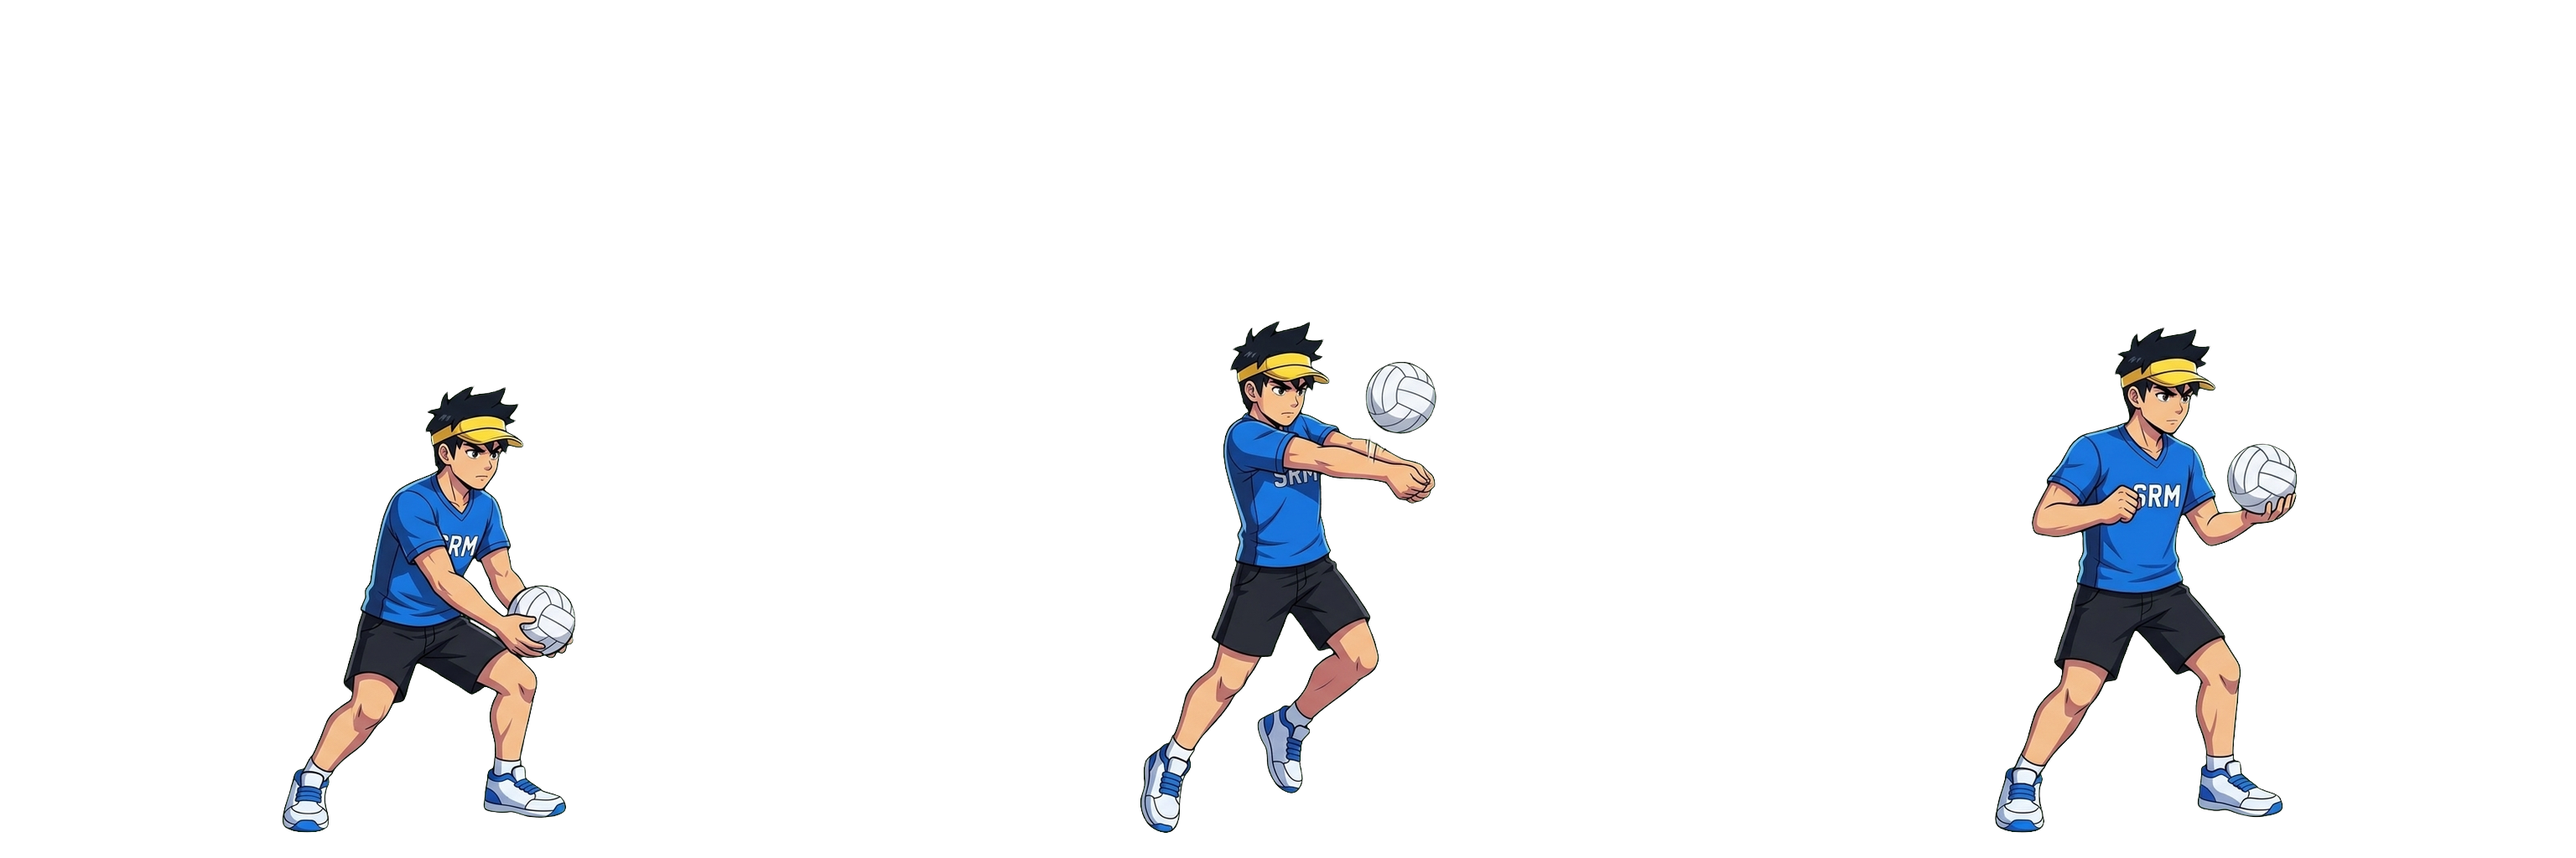
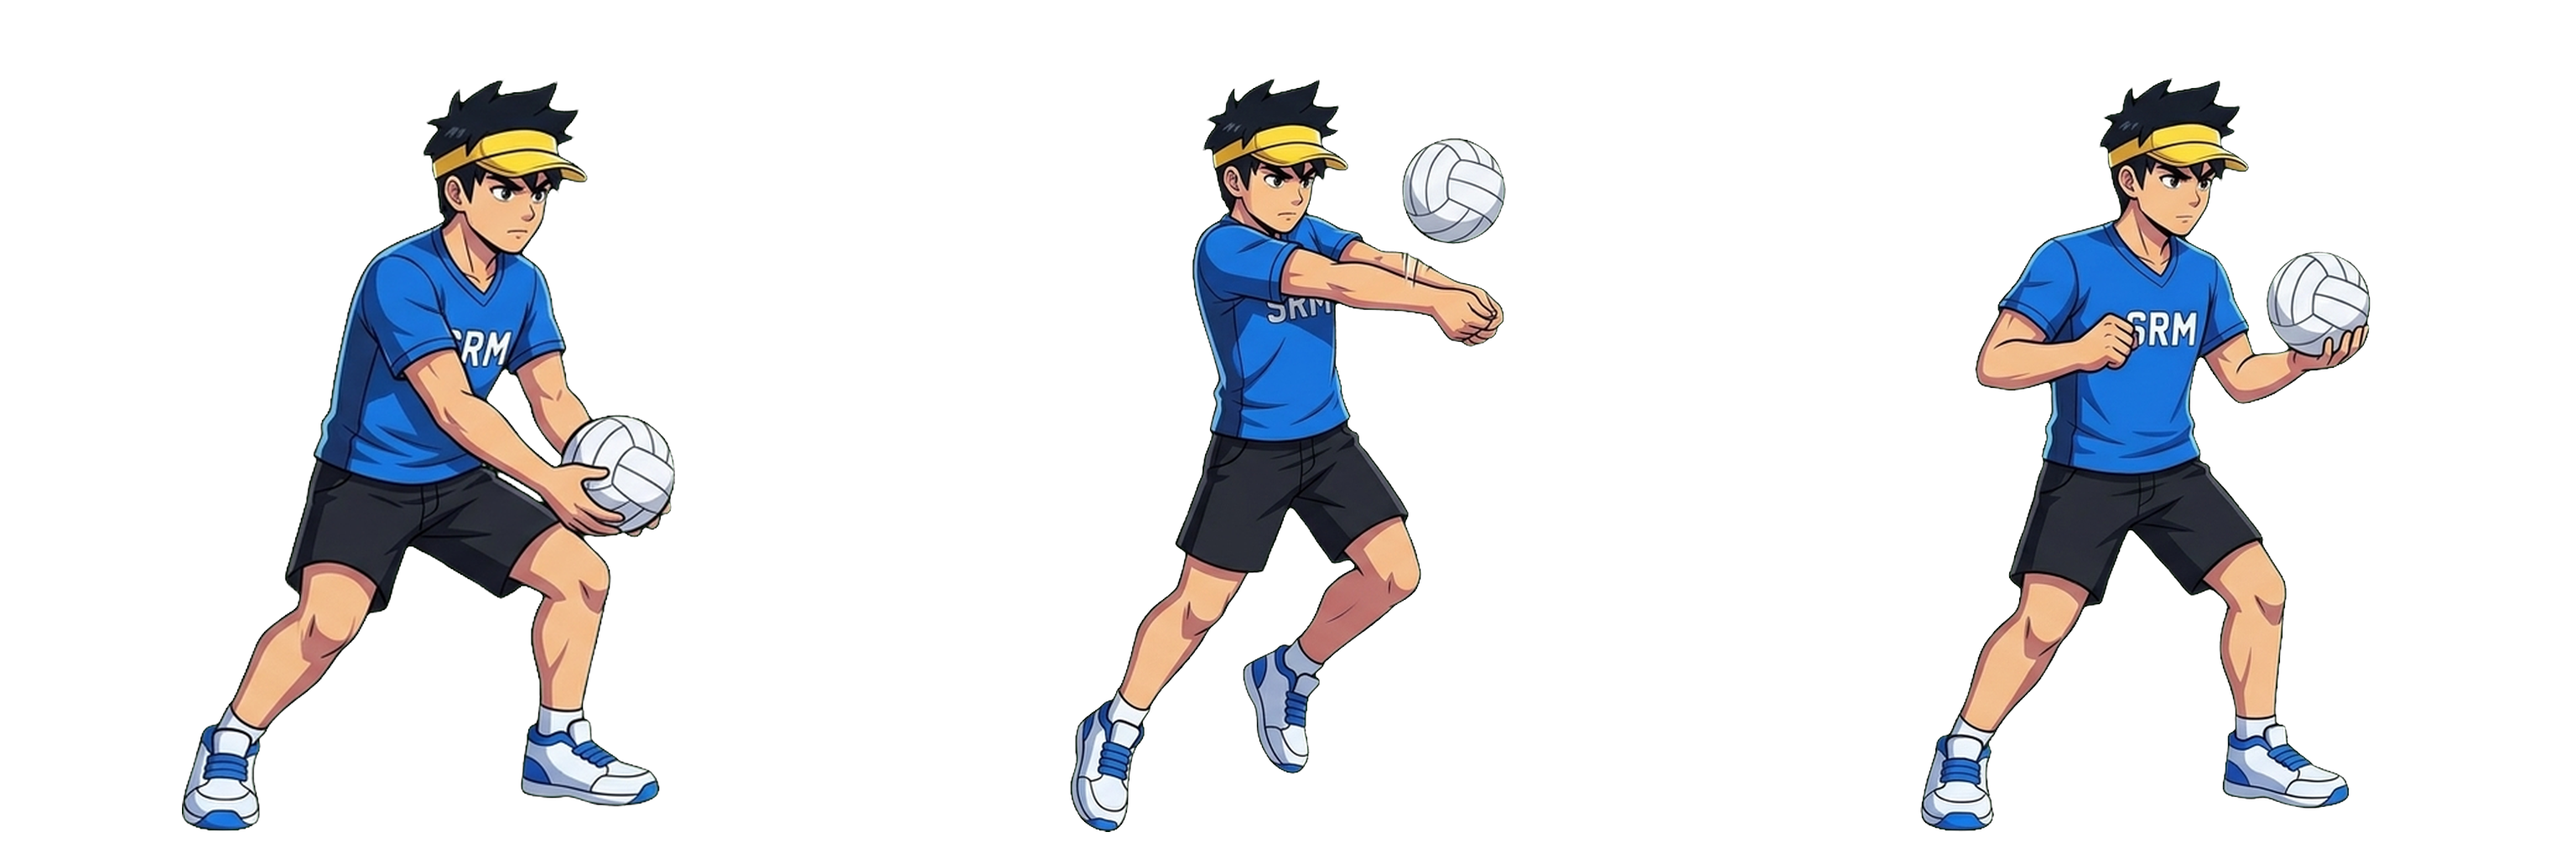
fix(fighters): normalize attack sprite dimensions to match idle scale and prevent shrinking

Changed region(s): [[0.7188, 0.0938, 0.9375, 0.9688], [0.0625, 0.0938, 0.2812, 0.9688], [0.4062, 0.0938, 0.5938, 0.9688]]

diff --git a/index.html b/index.html
@@ -50,14 +50,14 @@
   <link rel="preconnect" href="https://fonts.gstatic.com" crossorigin>
   <link href="https://fonts.googleapis.com/css2?family=Permanent+Marker&family=Orbitron:wght@600;700;800;900&family=Press+Start+2P&family=Rajdhani:wght@600;700;900&family=Space+Grotesk:wght@500;700&display=swap" rel="stylesheet">
 
-  <!-- External Stylesheets (v=17 cache bust) -->
-  <link rel="stylesheet" href="css/main.css?v=17">
-  <link rel="stylesheet" href="css/landing.css?v=20">
-  <link rel="stylesheet" href="css/characterSelect.css?v=20">
-  <link rel="stylesheet" href="css/stageSelect.css?v=20">
-  <link rel="stylesheet" href="css/game.css?v=17">
-  <link rel="stylesheet" href="css/leaderboard.css?v=17">
-  <link rel="stylesheet" href="css/entryPortal.css?v=17">
+  <!-- External Stylesheets (v=21 cache bust) -->
+  <link rel="stylesheet" href="css/main.css?v=21">
+  <link rel="stylesheet" href="css/landing.css?v=21">
+  <link rel="stylesheet" href="css/characterSelect.css?v=21">
+  <link rel="stylesheet" href="css/stageSelect.css?v=21">
+  <link rel="stylesheet" href="css/game.css?v=21">
+  <link rel="stylesheet" href="css/leaderboard.css?v=21">
+  <link rel="stylesheet" href="css/entryPortal.css?v=21">
   <link rel="stylesheet" href="css/campus-clash-ui.css?v=5">
   <link rel="stylesheet" href="css/pauseMenu.css?v=1">
   <link rel="stylesheet" href="css/touchControls.css?v=1">

diff --git a/tools/normalize_attack_sprites.py b/tools/normalize_attack_sprites.py
@@ -1,0 +1,127 @@
+#!/usr/bin/env python3
+"""
+Normalize character attack sprites (light, heavy, special, ultimate) so their
+visual pixel height and body proportion match their idle state exactly.
+Prevents characters from shrinking when attacking.
+"""
+
+import os
+import glob
+import json
+import numpy as np
+from PIL import Image
+
+CHARS_DIR = "assets/characters"
+MANIFEST_PATH = os.path.join(CHARS_DIR, "manifest.json")
+
+def normalize_character_sprites():
+    manifest = {}
+    if os.path.exists(MANIFEST_PATH):
+        with open(MANIFEST_PATH, "r") as f:
+            manifest = json.load(f)
+
+    # Characters in roster
+    char_dirs = sorted([d for d in os.listdir(CHARS_DIR) if os.path.isdir(os.path.join(CHARS_DIR, d)) and not d.startswith(".")])
+    
+    states_to_check = ["light", "heavy", "special", "ultimate"]
+
+    total_scaled = 0
+
+    for char_id in char_dirs:
+        char_path = os.path.join(CHARS_DIR, char_id)
+        idle_file = os.path.join(char_path, "idle.png")
+        if not os.path.exists(idle_file):
+            continue
+
+        im_idle = Image.open(idle_file).convert("RGBA")
+        arr_idle = np.array(im_idle)
+        y_idle = np.where(arr_idle[:, :, 3] > 20)[0]
+        if len(y_idle) == 0:
+            continue
+
+        target_h = int(np.max(y_idle)) - int(np.min(y_idle))
+        target_bottom = int(np.max(y_idle))
+        target_top = int(np.min(y_idle))
+
+        print(f"\n[{char_id.upper()}] Baseline Idle: height={target_h}px, top={target_top}px, bottom={target_bottom}px")
+
+        for state in states_to_check:
+            state_file = os.path.join(char_path, f"{state}.png")
+            if not os.path.exists(state_file):
+                continue
+
+            im = Image.open(state_file).convert("RGBA")
+            mframes = manifest.get(char_id, {}).get(state, {}).get("frames", 1)
+            fw = im.width // mframes
+            fh = im.height
+
+            arr = np.array(im)
+            out_strip = Image.new("RGBA", im.size, (0, 0, 0, 0))
+            modified_any = False
+
+            for f in range(mframes):
+                sub_img = im.crop((f * fw, 0, (f + 1) * fw, fh))
+                sub_arr = np.array(sub_img)
+                alpha = sub_arr[:, :, 3]
+
+                y_idx = np.where(alpha > 20)[0]
+                x_idx = np.where(alpha > 20)[1]
+
+                if len(y_idx) == 0 or len(x_idx) == 0:
+                    out_strip.paste(sub_img, (f * fw, 0))
+                    continue
+
+                ct = int(np.min(y_idx))
+                cb = int(np.max(y_idx))
+                cl = int(np.min(x_idx))
+                cr = int(np.max(x_idx))
+
+                ch = cb - ct
+                cw = cr - cl
+
+                # If character height in attack is significantly smaller than idle (> 6% smaller)
+                if ch < target_h * 0.94:
+                    scale = target_h / ch
+                    # Ensure width doesn't clip outside frame boundaries
+                    if (cw * scale) > (fw - 24):
+                        scale = (fw - 24) / cw
+
+                    new_w = max(1, int(round(cw * scale)))
+                    new_h = max(1, int(round(ch * scale)))
+
+                    cropped = sub_img.crop((cl, ct, cr + 1, cb + 1))
+                    resized = cropped.resize((new_w, new_h), Image.Resampling.LANCZOS)
+
+                    new_frame = Image.new("RGBA", (fw, fh), (0, 0, 0, 0))
+
+                    # Position feet at baseline target_bottom
+                    paste_y = target_bottom - new_h
+                    if paste_y < 0:
+                        paste_y = max(0, fh - new_h)
+                    if (paste_y + new_h) > fh:
+                        paste_y = fh - new_h
+
+                    # Center horizontally at the character's original center
+                    orig_center_x = (cl + cr) / 2
+                    paste_x = int(round(orig_center_x - new_w / 2))
+                    if paste_x < 0:
+                        paste_x = 0
+                    if paste_x + new_w > fw:
+                        paste_x = fw - new_w
+
+                    new_frame.paste(resized, (paste_x, paste_y), resized)
+                    out_strip.paste(new_frame, (f * fw, 0))
+                    modified_any = True
+                    total_scaled += 1
+                    print(f"  -> {state:8s} frame {f}: scaled {ch}px -> {new_h}px (ratio={scale:.2f})")
+                else:
+                    out_strip.paste(sub_img, (f * fw, 0))
+
+            if modified_any:
+                out_strip.save(state_file, "PNG", optimize=True)
+                print(f"  [SAVED] {state_file}")
+
+    print(f"\n[DONE] Successfully normalized {total_scaled} attack frames to match idle character proportions!")
+
+if __name__ == "__main__":
+    normalize_character_sprites()
